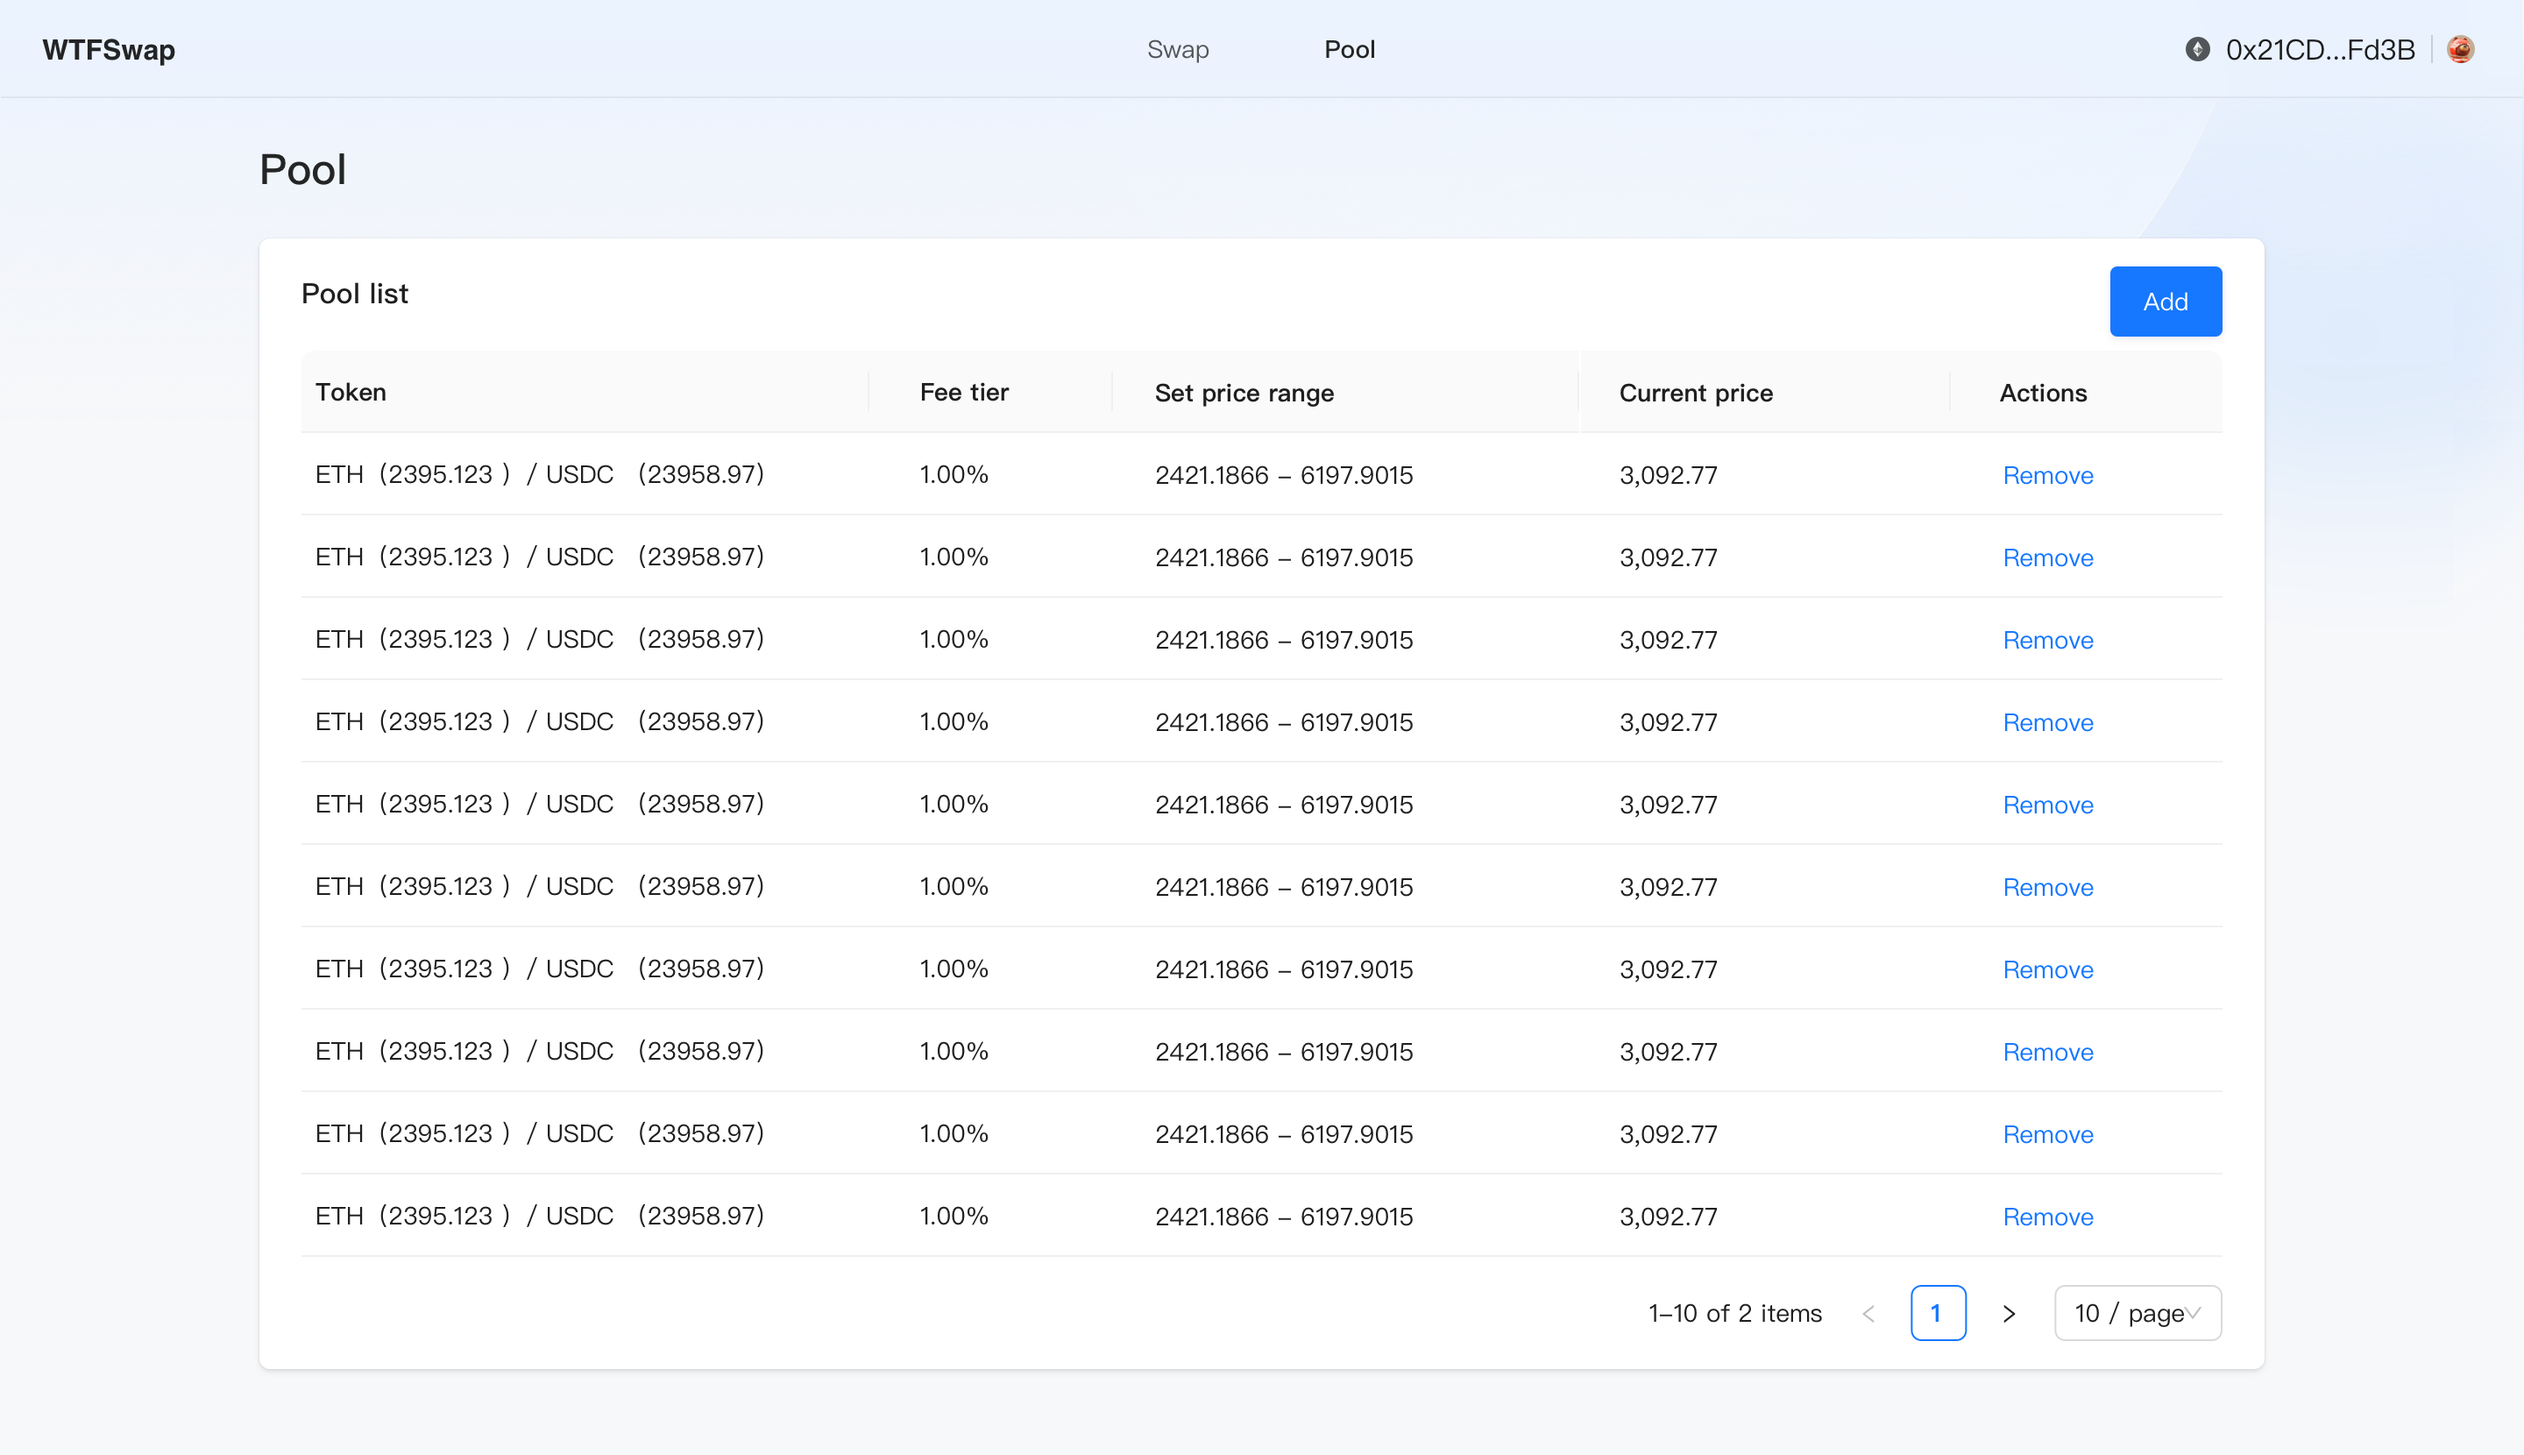
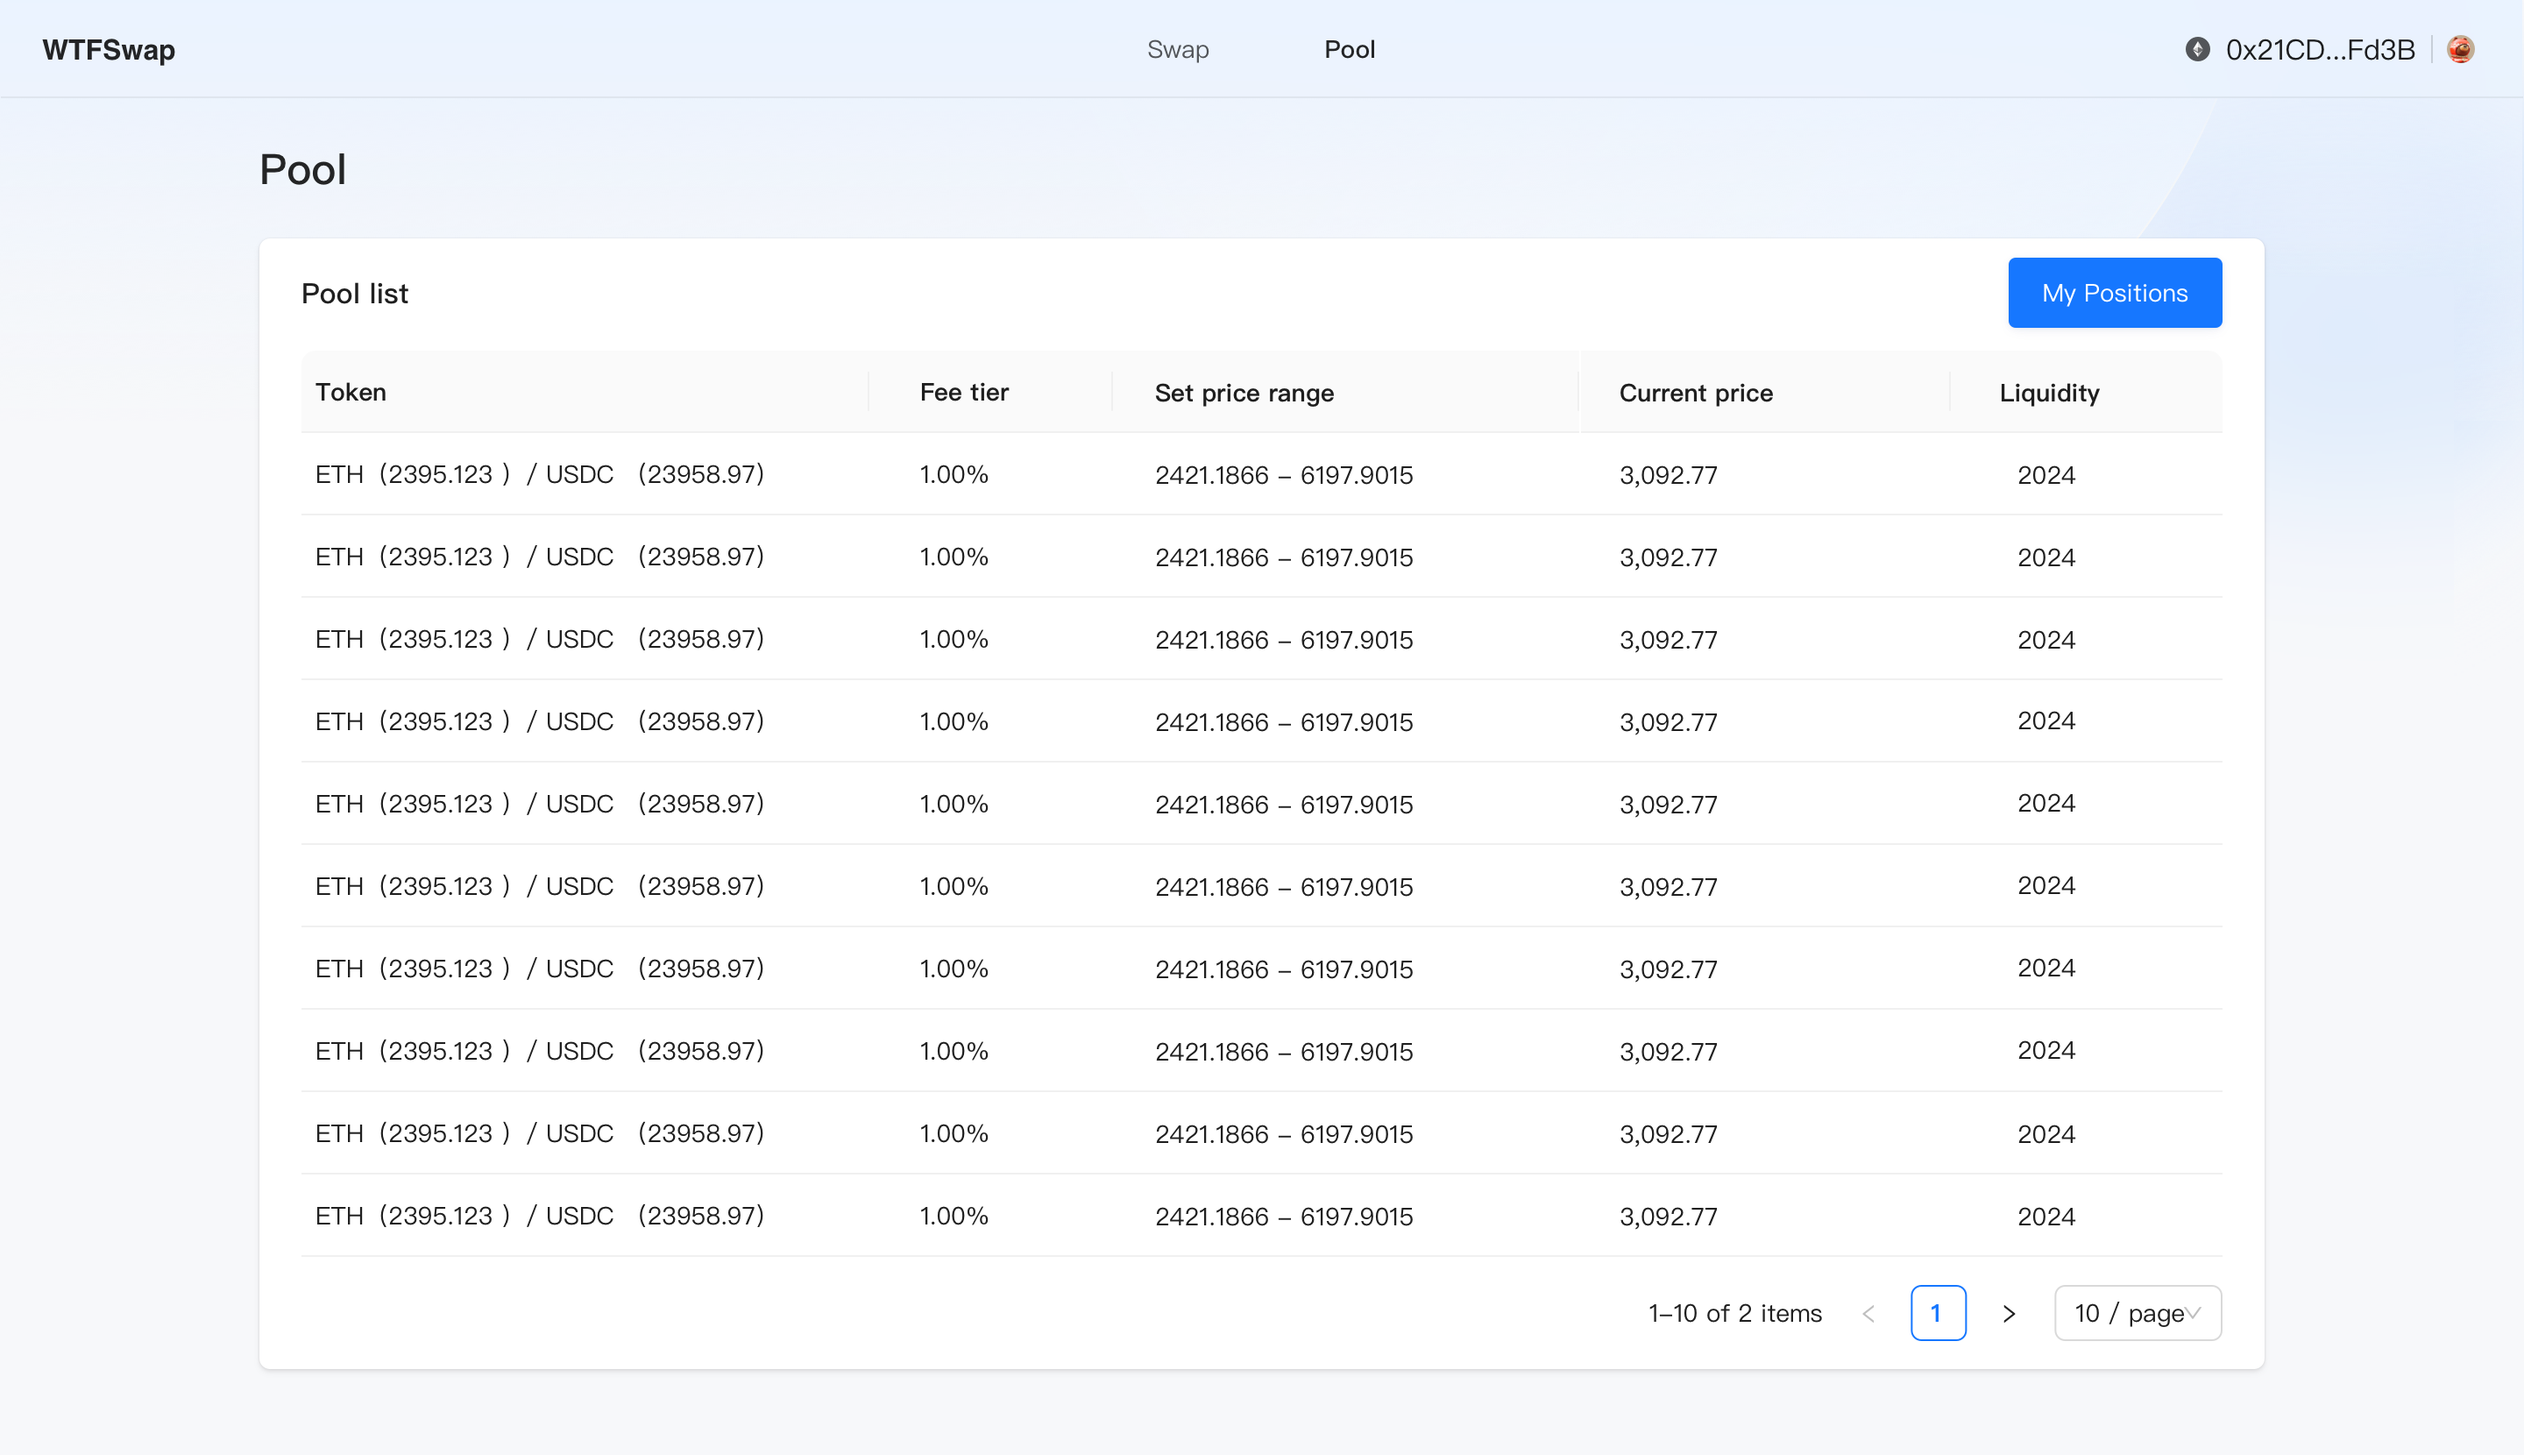
feat: add new positions page (#72)

diff --git a/P201_InitFrontend/code/pages/wtfswap/pool.tsx b/P201_InitFrontend/code/pages/wtfswap/pool.tsx
@@ -1,5 +1,10 @@
 import WtfLayout from "@/components/WtfLayout";
+import Link from "next/link";
 
 export default function WtfswapPool() {
-  return <WtfLayout>WtfswapPool</WtfLayout>;
+  return (
+    <WtfLayout>
+      WtfswapPool <Link href="/wtfswap/positions">My Positions</Link>
+    </WtfLayout>
+  );
 }

diff --git a/demo/pages/wtfswap/pool.tsx b/demo/pages/wtfswap/pool.tsx
@@ -1,5 +1,10 @@
 import WtfLayout from "@/components/WtfLayout";
+import Link from "next/link";
 
 export default function WtfswapPool() {
-  return <WtfLayout>WtfswapPool</WtfLayout>;
+  return (
+    <WtfLayout>
+      WtfswapPool <Link href="/wtfswap/positions">My Positions</Link>
+    </WtfLayout>
+  );
 }

diff --git a/P201_InitFrontend/code/pages/wtfswap/positions.tsx b/P201_InitFrontend/code/pages/wtfswap/positions.tsx
@@ -1,0 +1,5 @@
+import WtfLayout from "@/components/WtfLayout";
+
+export default function WtfswapPositions() {
+  return <WtfLayout>WtfswapPositions</WtfLayout>;
+}

diff --git a/demo/pages/wtfswap/positions.tsx b/demo/pages/wtfswap/positions.tsx
@@ -1,0 +1,5 @@
+import WtfLayout from "@/components/WtfLayout";
+
+export default function WtfswapPositions() {
+  return <WtfLayout>WtfswapPositions</WtfLayout>;
+}

diff --git a/P201_InitFrontend/readme.md b/P201_InitFrontend/readme.md
@@ -27,10 +27,11 @@ export default function Wtfswap() {
   - components
     - WtfLayout/index.tsx # Wtfswap 的整体布局
     - WtfLayout/Header.tsx # Wtfswap 整体布局的头部
-    - WtfCreatePoolModal/index.tsx # 创建资金池的弹窗
+    - WtfAddPositionModal/index.tsx # 创建流动性的弹窗
   - wtfswap
     - index.tsx # Wtfswap 首页，也就是 Swap 页面
     - pool.tsx # Pool 页面
+    - positions.tsx # Positions 页面
 ```
 
 我们先来创建 `WtfLayout` 组件，这个组件是 Wtfswap 的整体布局，包含了头部。在 `pages/components` 目录下新建 `WtfLayout/Header.tsx` 文件，并初始化如下内容：
@@ -78,17 +79,32 @@ export default function Wtfswap() {
 
 ![initlayout](./img/initlayout.jpeg)
 
-同理，我们继续创建 `wtfswap/pool.tsx` 文件，并初始化如下内容：
+同理，我们继续创建 `wtfswap/positions.tsx` 和 `wtfswap/pool.tsx` 文件，并初始化如下内容，使得从 Pool 页面可以跳转到 Positions 页面：
 
 ```tsx
+// wtfswap/positions.tsx
 import WtfLayout from "@/components/WtfLayout";
 
-export default function WtfswapPool() {
-  return <WtfLayout>WtfswapPool</WtfLayout>;
+export default function WtfswapPositions() {
+  return <WtfLayout>WtfswapPositions</WtfLayout>;
 }
 ```
 
-访问 [http://localhost:3000/wtfswap/pool](http://localhost:3000/wtfswap/pool) 可以看到结果。
+```tsx
+// wtfswap/pool.tsx
+import WtfLayout from "@/components/WtfLayout";
+import Link from "next/link";
+
+export default function WtfswapPool() {
+  return (
+    <WtfLayout>
+      WtfswapPool <Link href="/wtfswap/positions">My Positions</Link>
+    </WtfLayout>
+  );
+}
+```
+
+访问 [http://localhost:3000/wtfswap/pool](http://localhost:3000/wtfswap/pool) 和 [http://localhost:3000/wtfswap/positions](http://localhost:3000/wtfswap/positions) 可以看到结果。
 
 ## 技术分析和后续研发计划
 
@@ -98,7 +114,8 @@ export default function WtfswapPool() {
 
 1. **连接钱包**：用户需要连接钱包才能进行交易，在课程中我们使用 [Ant Design Web3 的以太坊适配器](https://web3.ant.design/components/ethereum-cn) 来连接钱包和链。我们需要在 `WtfLayout` 中引入 `WagmiWeb3ConfigProvider` 给所有的组件提供连接钱包和链的能力。另外需要在 `WtfHeader` 中使用 [ConnectorModal](https://web3.ant.design/components/connect-modal-cn) 等组件来实现连接钱包的 UI，支持多种形式的连接钱包和切换链。
 1. **Swap 页面**：Swap 页面是 Wtfswap 的核心页面，该页面讲基于 [Ant Design](https://ant.design/components/overview-cn/) 和 [Ant Design Web3](https://web3.ant.design/components/icons-cn) 的基础组件搭建，并使用 [wagmi](https://wagmi.sh/) 的 Hooks 来和链交互。
-1. **Pool 页面**：Pool 页面需要展示 LP 资金池的信息，并支持提取资金池的操作，UI 主要基于 Ant Design 的 [Table](https://ant.design/components/table-cn) 组件开发。数据也同样是使用 [wagmi](https://wagmi.sh/) 直接从链上获取。
-1. **创建资金池**：创建资金池是 Wtfswap 的核心功能之一，我们需要在 `WtfCreatePoolModal` 组件中实现创建资金池的 UI，并使用 wagmi 的 Hooks 来和链交互。`WtfCreatePoolModal` 组件将会被 `pages/wtfswap/pool.tsx` 引用，基于 Ant Design 的 [Modal](https://ant.design/components/modal-cn) 组件实现。
+1. **Pool 页面**：Pool 页面需要展示当前已经有的交易池，UI 主要基于 Ant Design 的 [Table](https://ant.design/components/table-cn) 组件开发。数据也同样是使用 [wagmi](https://wagmi.sh/) 直接从链上获取。
+1. **Positions 页面**：Positions 页面需要展示 LP 资金池的信息，并支持提取资金池的操作，UI 主要基于 Ant Design 的 [Table](https://ant.design/components/table-cn) 组件开发。数据也同样是使用 [wagmi](https://wagmi.sh/) 直接从链上获取。
+1. **添加流动性（Position）**：添加流动性是 Wtfswap 的核心功能之一，我们需要在 `WtfAddPositionModal` 组件中实现创建资金池的 UI，并使用 wagmi 的 Hooks 来和链交互。`WtfAddPositionModal` 组件将会被 `pages/wtfswap/positions.tsx` 引用，基于 Ant Design 的 [Modal](https://ant.design/components/modal-cn) 组件实现。
 
 接下来，就让我们进入后面的研发环节，逐步实现 Wtfswap 的功能。

diff --git a/P003_OverallDesign/readme.md b/P003_OverallDesign/readme.md
@@ -32,11 +32,15 @@ Swap 页面，用于交易代币：
 
 ![swap](./img/swap.png)
 
-Pool 页面，用于查看和移除流动性：
+Pool 页面，用于查看当前已经有的交易池：
 
 ![pool](./img/pool.png)
 
-Pool 页面创建流动性弹窗，用于创建新的流动性：
+Positions 页面，用于查看和和移除流动性：
+
+![pool](./img/positions.png)
+
+Positions 页面创建流动性弹窗，用于创建新的流动性（如果没有对应的交易池，会先创建交易池）：
 
 ![add](./img/add.png)
 
